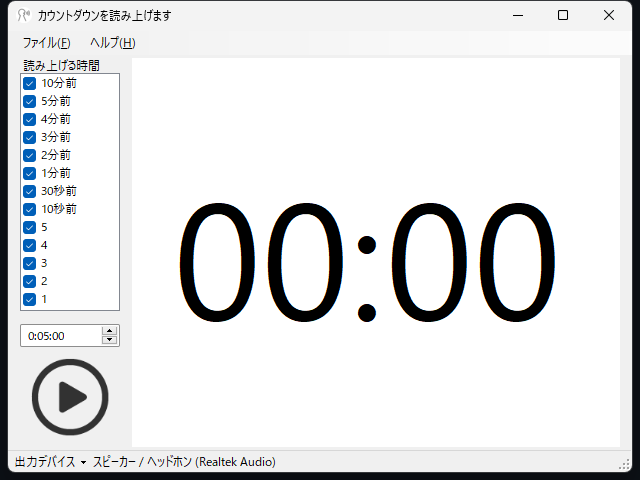
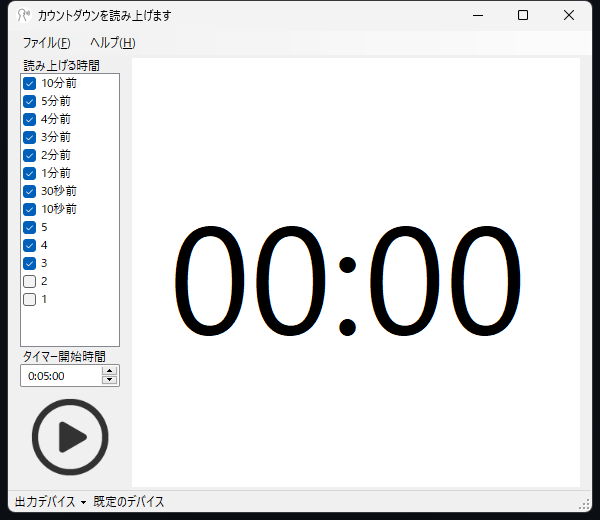
v20230603 - label3の表示に関するプロパティの軽微な修正 - imageの更新

diff --git a/VoiceCountdown/Form1.Designer.cs b/VoiceCountdown/Form1.Designer.cs
@@ -100,21 +100,19 @@
             // 
             // label3
             // 
-            label3.AutoSize = true;
             label3.Dock = DockStyle.Bottom;
             label3.Location = new Point(0, 291);
             label3.Name = "label3";
-            label3.Size = new Size(90, 15);
+            label3.Size = new Size(100, 15);
             label3.TabIndex = 4;
             label3.Text = "タイマー開始時間";
             // 
             // label1
             // 
-            label1.AutoSize = true;
             label1.Dock = DockStyle.Top;
             label1.Location = new Point(0, 0);
             label1.Name = "label1";
-            label1.Size = new Size(84, 15);
+            label1.Size = new Size(100, 15);
             label1.TabIndex = 0;
             label1.Text = "読み上げる時間";
             // 
@@ -277,7 +275,6 @@
             Name = "Form1";
             Text = "カウントダウンを読み上げます";
             splitContainer1.Panel1.ResumeLayout(false);
-            splitContainer1.Panel1.PerformLayout();
             splitContainer1.Panel2.ResumeLayout(false);
             splitContainer1.Panel2.PerformLayout();
             ((System.ComponentModel.ISupportInitialize)splitContainer1).EndInit();

diff --git a/VoiceCountdown/Form1.cs b/VoiceCountdown/Form1.cs
@@ -502,7 +502,7 @@ namespace VoiceCountdown
         /// <param name="e"></param>
         private void AboutToolStripMenuItem_Click(object sender, EventArgs e)
         {
-            MessageBox.Show("VoiceCountdown\r\n\r\nVersion 20230602\r\nあみたろの声素材工房(https://amitaro.net/)の音声を使用しました");
+            MessageBox.Show("VoiceCountdown\r\n\r\nVersion 20230603\r\nあみたろの声素材工房(https://amitaro.net/)の音声を使用しました");
         }
 
         private void Button1_MouseEnter(object sender, EventArgs e) => Cursor = Cursors.Hand;
